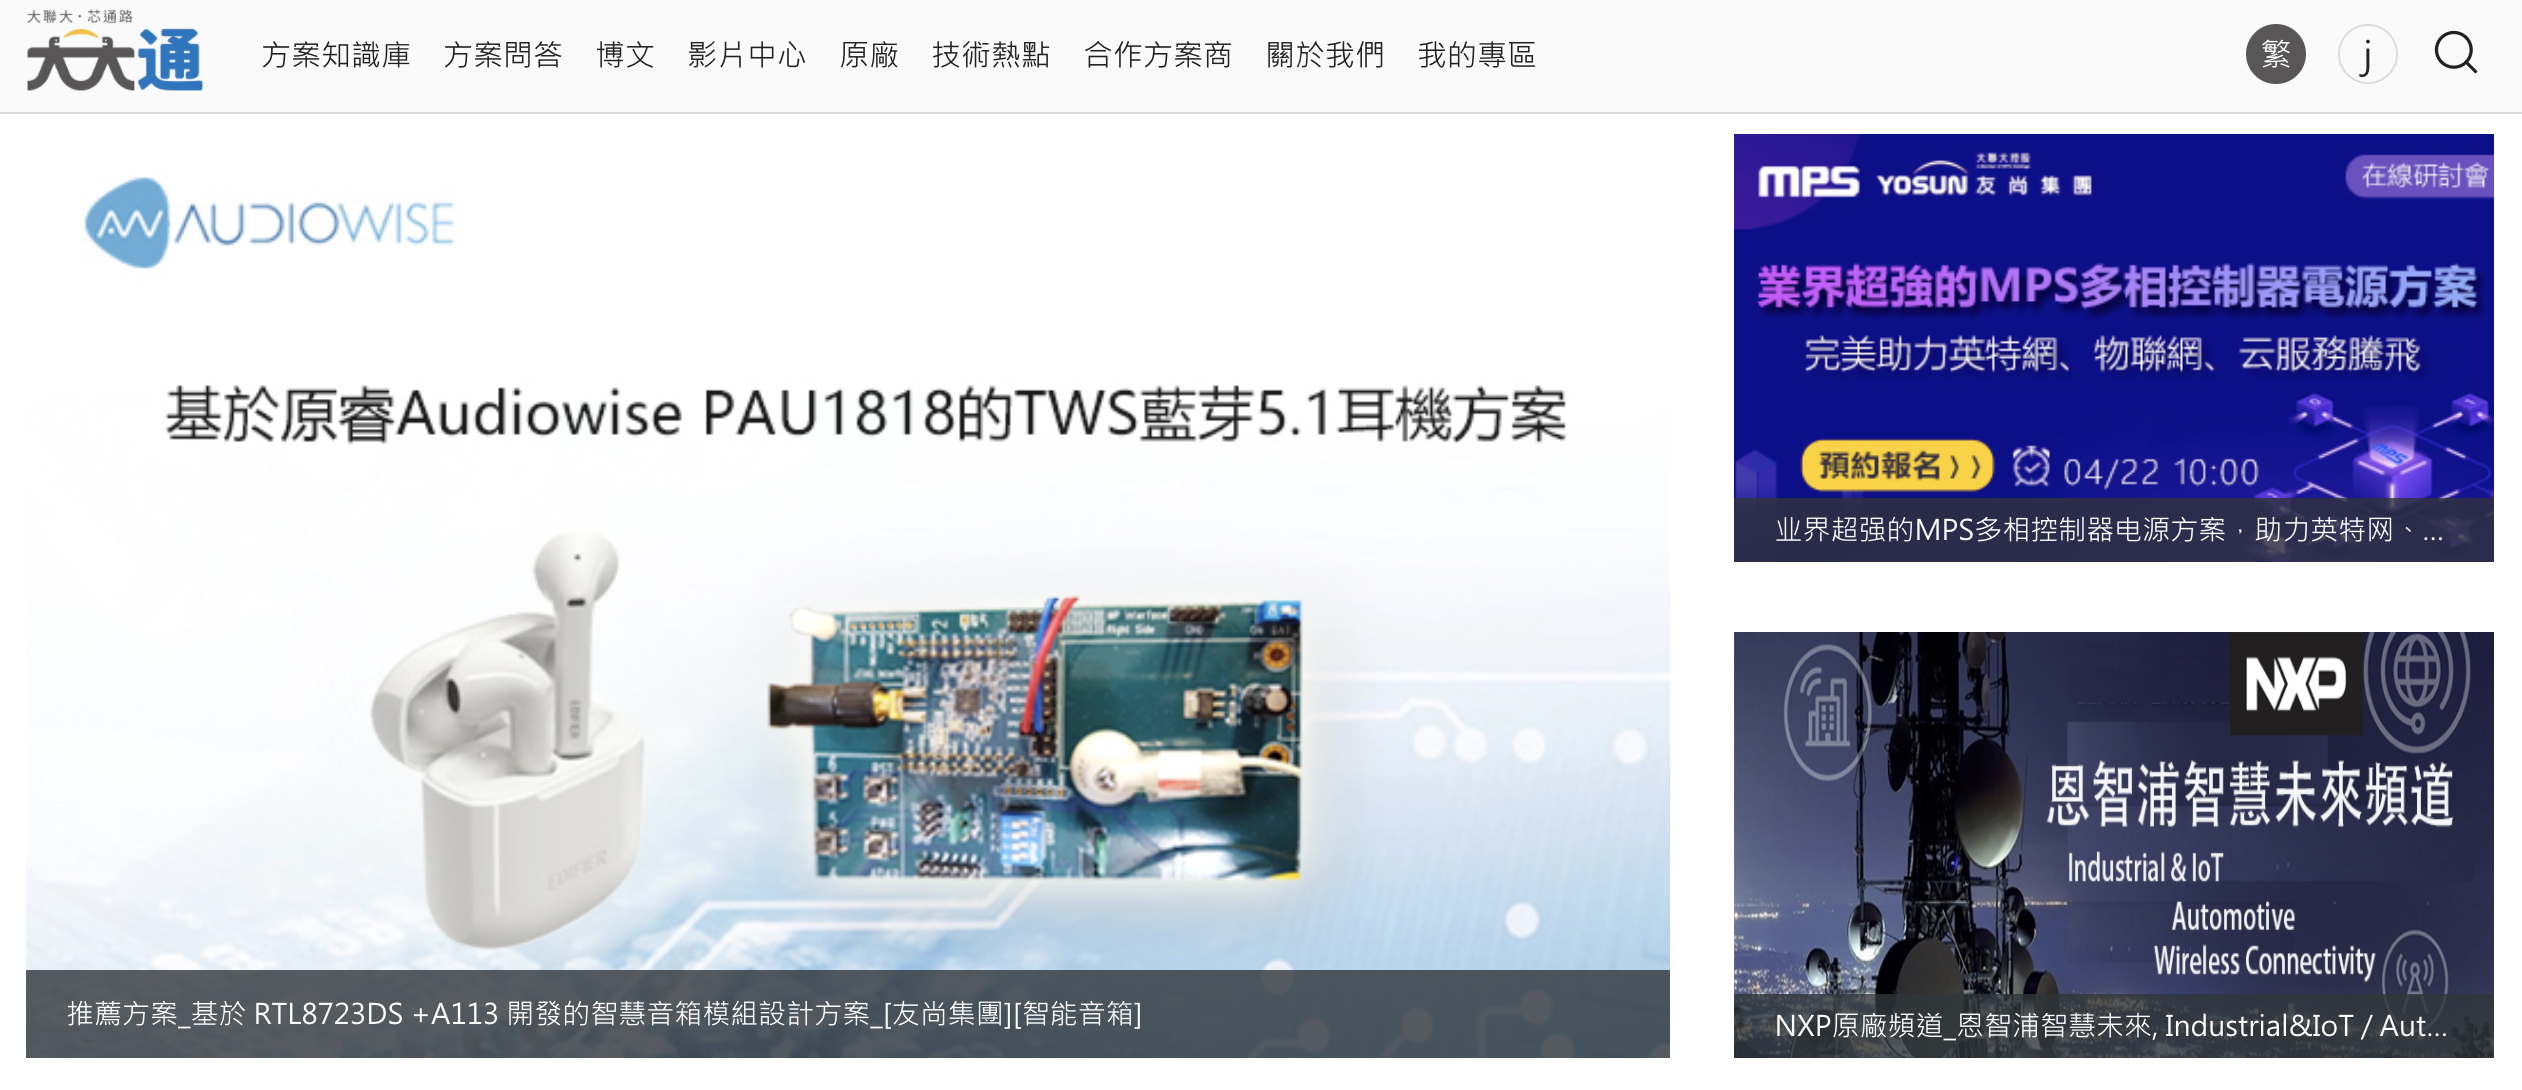
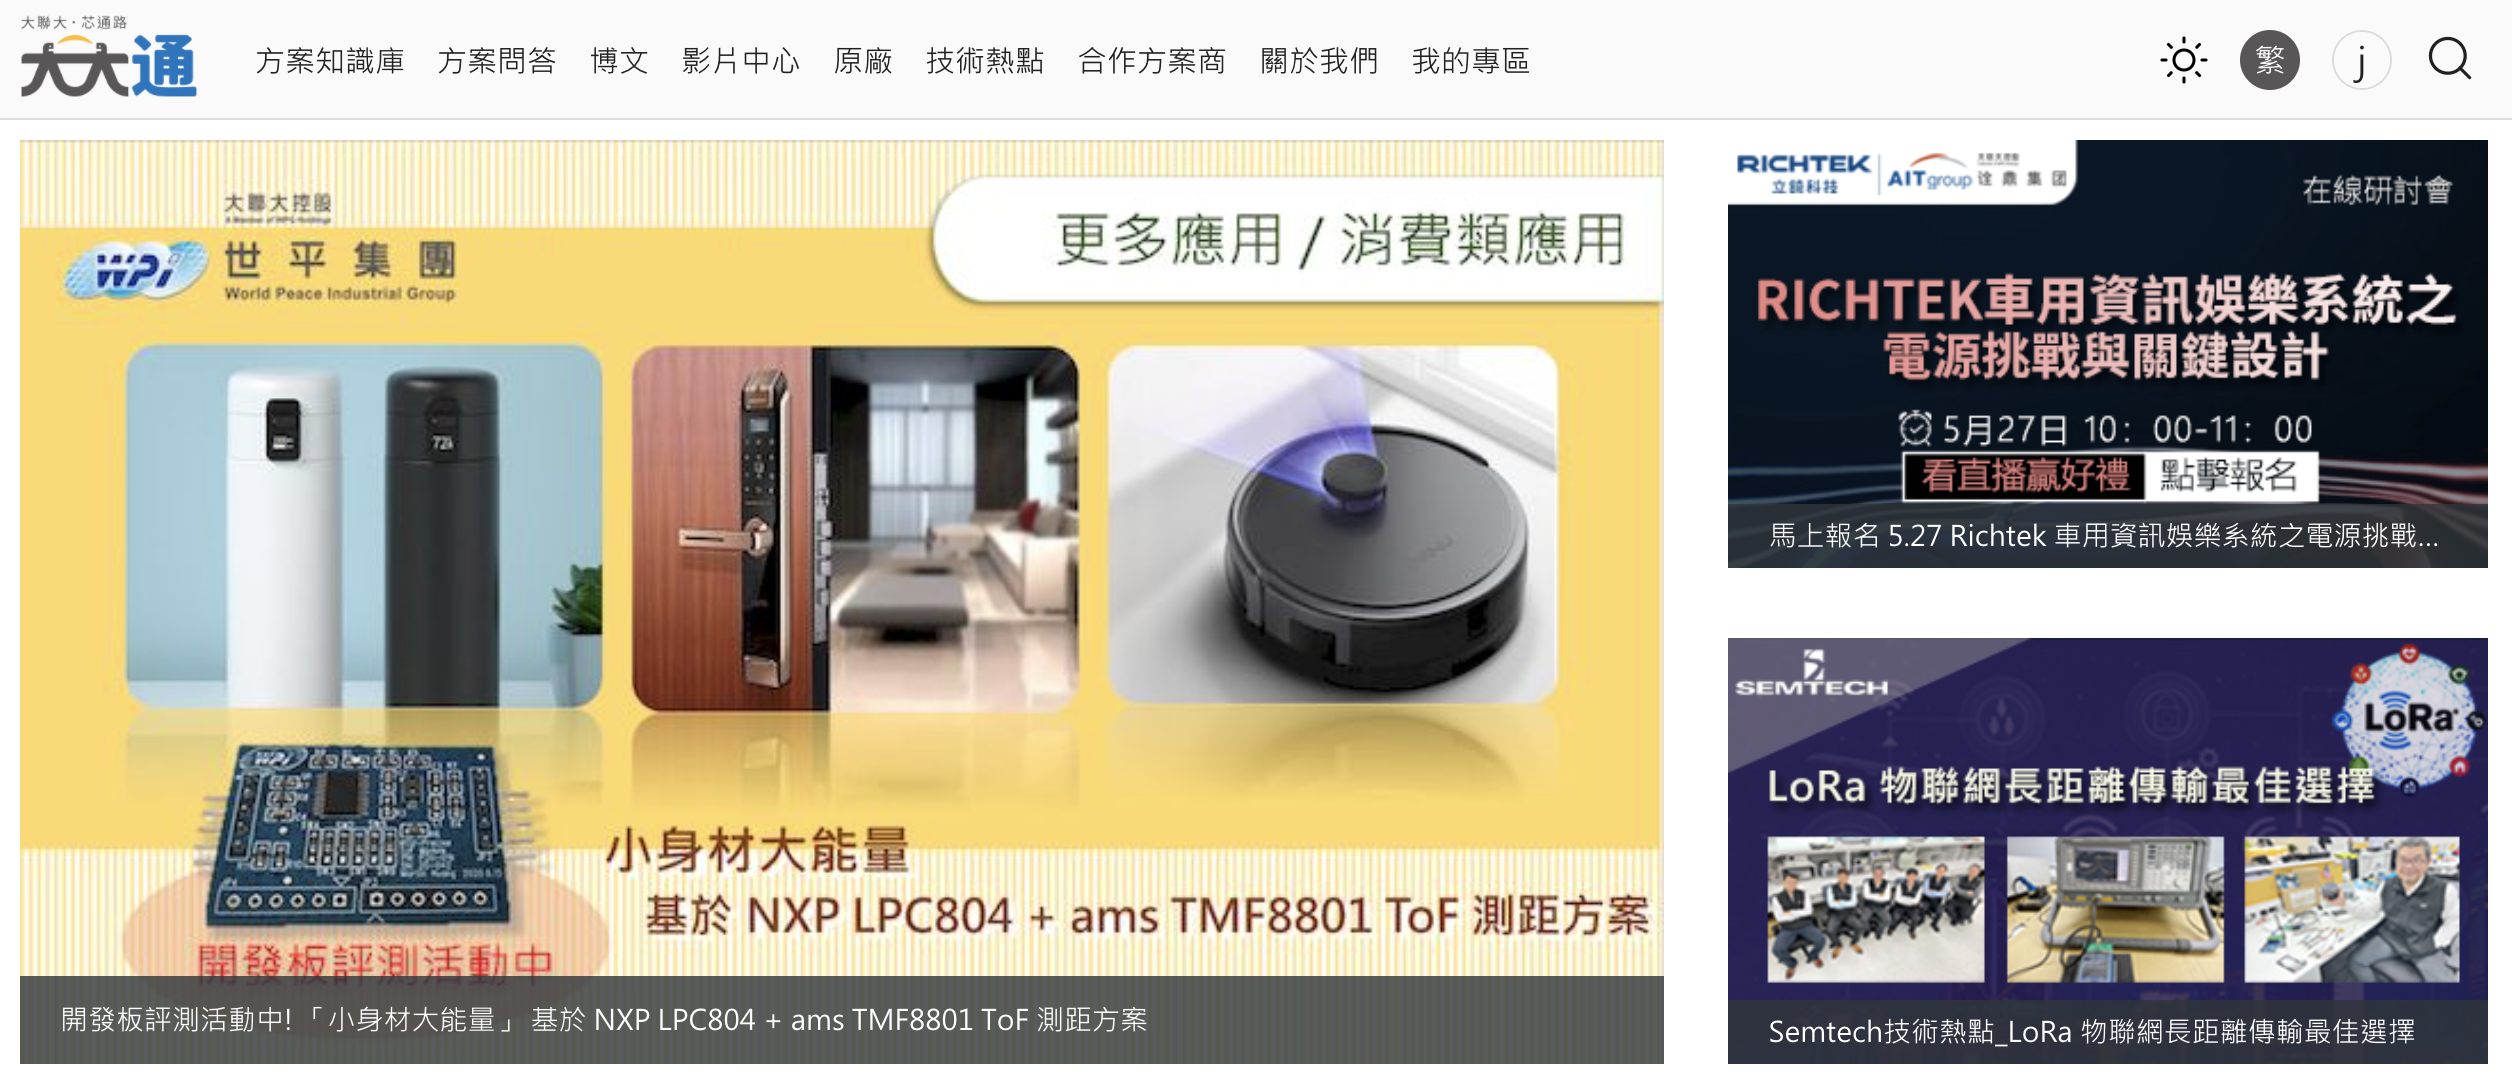
Add DaDaTong_Solution_Detail

diff --git a/src/components/SlideShow/SlideShowDataList.ts b/src/components/SlideShow/SlideShowDataList.ts
@@ -1,4 +1,5 @@
 import DaDaTong_Home_Top from '@/assets/img/dadatong/home_top.png';
+import DaDaTong_Solution_Detail from '@/assets/img/dadatong/solution_detail.png';
 import DaDaTong_SEO from '@/assets/img/dadatong/SEO.png';
 import DaDaTong_Announcement from '@/assets/img/dadatong/announcement.png';
 import { Data } from './SlideShowTypes';
@@ -7,6 +8,14 @@ const dataList: Data[] = [
   {
     type: 'normal',
     src: DaDaTong_Home_Top,
+    title: 'DaDaTong Website',
+    list: [
+      `I am reponsible for refactoring and developing the website of DaDaTong from November 2019 to December 2020. The next few slides show the features that I implemented last year.`,
+    ],
+  },
+  {
+    type: 'normal',
+    src: DaDaTong_Solution_Detail,
     title: 'Refactoring the Website',
     list: [
       `1. Refactor the old DaDaTong from <code>JSP (JavaServer Page)</code> to <code>React.js</code>.`,
@@ -19,7 +28,7 @@ const dataList: Data[] = [
     title: 'Search Engine Optimization (SEO)',
     list: [
       `1. By using <code>Google Analytics (GA)</code> <code>Google Tag Manager (GTM)</code> <code>A/B Test</code> to optimize the SEO.`,
-      `2. The impression is increased significantly after the new DaDaTong launched on April 2020.`,
+      `2. The impression was increased significantly after the new DaDaTong launched on April 2020.`,
     ],
   },
   {
